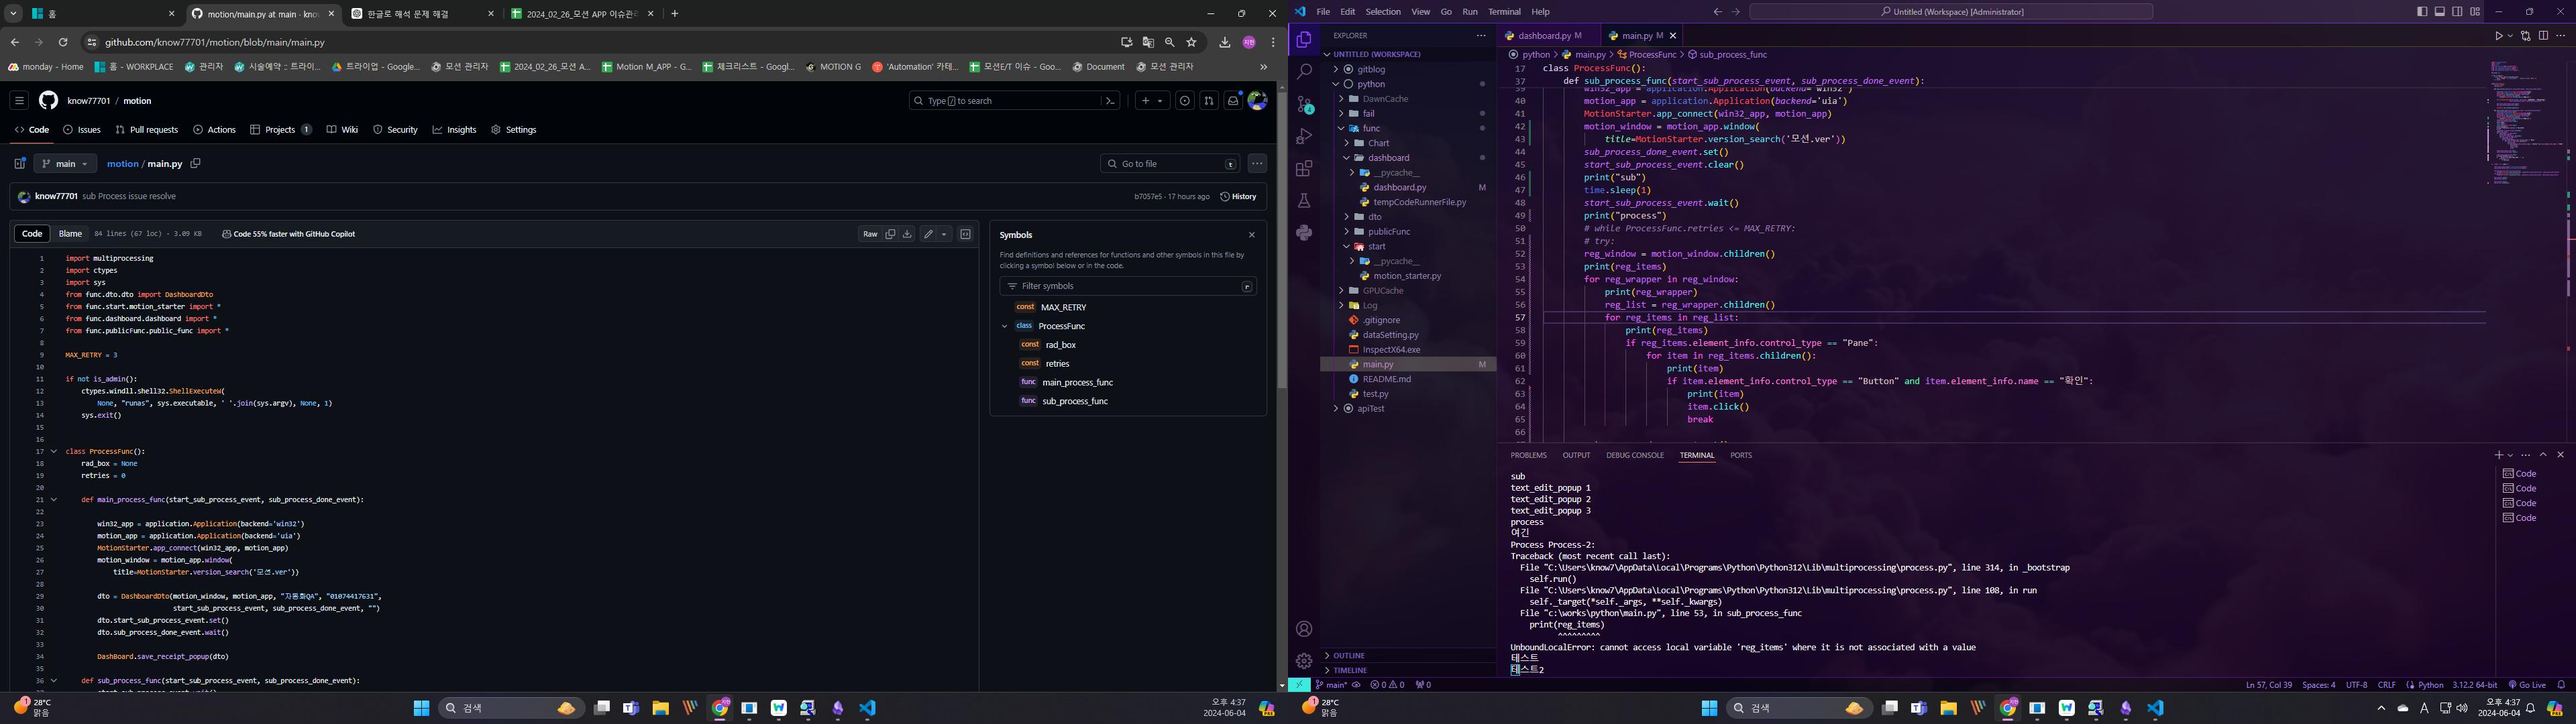
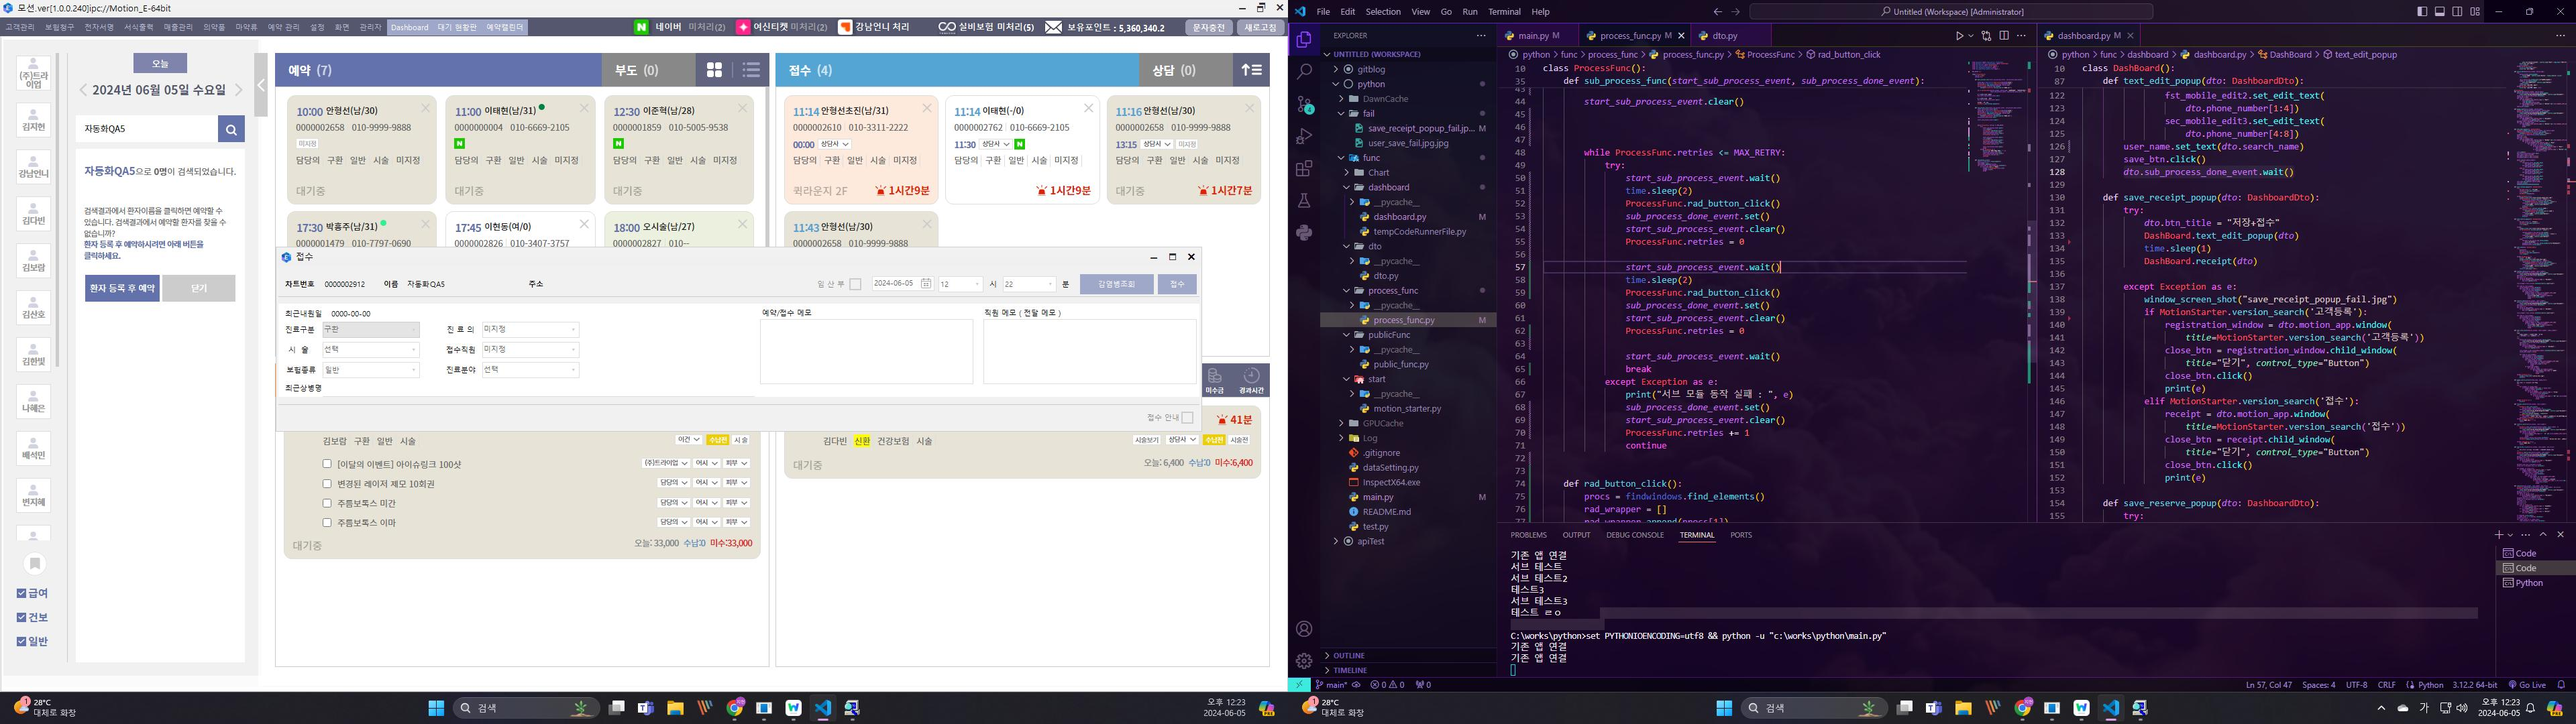
usb_process update

diff --git a/func/process_func/process_func.py b/func/process_func/process_func.py
@@ -1,10 +1,11 @@
+from pywinauto import application, findwindows
+from pywinauto.controls.hwndwrapper import HwndWrapper
 from func.dto.dto import DashboardDto
 from func.start.motion_starter import *
 from func.dashboard.dashboard import *
 from func.publicFunc.public_func import *
 
 MAX_RETRY = 3
-retries = 0
 
 class ProcessFunc():
     rad_box = None
@@ -18,8 +19,8 @@ class ProcessFunc():
         motion_window = motion_app.window(
             title=MotionStarter.version_search('모션.ver'))
 
-        dto = DashboardDto(motion_window, motion_app, "자동화QA4", "01074417631",
-                           start_sub_process_event, sub_process_done_event, "", "필요값")
+        dto = DashboardDto(motion_window, motion_app, "자동화QA5", "01074417631",
+                           start_sub_process_event, sub_process_done_event, "")
         
         # 서브프로세스 통신용
         dto.start_sub_process_event.set()
@@ -28,7 +29,7 @@ class ProcessFunc():
         dto.sub_process_done_event.wait()
         
         #여기서부터 시작
-        
+        DashBoard.save_receipt_popup(dto)
 
 
     def sub_process_func(start_sub_process_event, sub_process_done_event):
@@ -39,32 +40,44 @@ class ProcessFunc():
         motion_window = motion_app.window(
             title=MotionStarter.version_search('모션.ver'))
         sub_process_done_event.set()
-        
+
         start_sub_process_event.clear()
-    
-        start_sub_process_event.wait()
-        reg_window = motion_window.child_window(auto_id="FrmRegPatInfo", title="고객등록")
+        
+        
+        
         while ProcessFunc.retries <= MAX_RETRY:
             try:
-                reg_window.child_window
-                for reg_wrapper in reg_window:
-                    print(reg_wrapper)
-                    reg_list = reg_wrapper.children()
-                    for reg_items in reg_list:
-                        print(reg_items)
-                        if reg_items.element_info.control_type == "Pane":
-                            for item in reg_items.children():
-                                print(item)
-                                if item.element_info.control_type == "Button" and item.element_info.name == "확인":
-                                    print(item)
-                                    item.click()
-                                    break
-                
+                start_sub_process_event.wait()
+                time.sleep(2)
+                ProcessFunc.rad_button_click()
                 sub_process_done_event.set()
                 start_sub_process_event.clear()
+                ProcessFunc.retries = 0
 
                 start_sub_process_event.wait()
+                print("?")
+                time.sleep(2)
+                ProcessFunc.rad_button_click()
+                sub_process_done_event.set()
+                start_sub_process_event.clear()
+                ProcessFunc.retries = 0
+                
+                start_sub_process_event.wait()
+                break
             except Exception as e:
                 print("서브 모듈 동작 실패 : ", e)
-                retries += 1
+                sub_process_done_event.set()
+                start_sub_process_event.clear()
+                ProcessFunc.retries += 1
                 continue
+            
+            
+    def rad_button_click():
+        procs = findwindows.find_elements()
+        rad_wrapper = []
+        rad_wrapper.append(procs[1])
+        for list_item in rad_wrapper[0].children():
+            if list_item.name == "확인":
+                wrapper = HwndWrapper(list_item)
+                wrapper.click()
+                break

diff --git a/func/dashboard/dashboard.py b/func/dashboard/dashboard.py
@@ -10,6 +10,8 @@ retries = 0
 class DashBoard():
     """
     Motion E 차트 대시보드 동작
+    
+    
     """
     def dashboard_start(dto: DashboardDto):
         """
@@ -86,7 +88,6 @@ class DashBoard():
         DashBoard.popup_view(dto.motion_window, dto.search_name)
         registration_window = dto.motion_app.window(
             title=MotionStarter.version_search('고객등록'))
-        print("text_edit_popup 1")
         window_list = registration_window.children()
         edit_list = []
         save_btn = None
@@ -100,14 +101,12 @@ class DashBoard():
                                     edit_list.append(value)
                                 if value.element_info.control_type == "Button" and value.element_info.name == dto.btn_title:
                                     save_btn = value
-        print("text_edit_popup 2")
-        time.sleep(2)
-        print("text_edit_popup 3")
+        time.sleep(3)
+        dto.start_sub_process_event.set()
         user_name = edit_list[19]
-        user_name.set_text(dto.search_name)
         sec_mobile_edit3 = edit_list[11]
         fst_mobile_edit2 = edit_list[13]
-        dto.start_sub_process_event.set()
+        
         match len(dto.phone_number):
             case 13:
                 fst_mobile_edit2.set_edit_text(
@@ -124,7 +123,7 @@ class DashBoard():
                     dto.phone_number[1:4])
                 sec_mobile_edit3.set_edit_text(
                     dto.phone_number[4:8])
-       
+        user_name.set_text(dto.search_name)
         save_btn.click()
         dto.sub_process_done_event.wait()
 
@@ -132,14 +131,12 @@ class DashBoard():
         try:
             dto.btn_title = "저장+접수"
             DashBoard.text_edit_popup(dto)
-            print("여긴")
             time.sleep(1)
             DashBoard.receipt(dto)
 
         except Exception as e:
             window_screen_shot("save_receipt_popup_fail.jpg")
             if MotionStarter.version_search('고객등록'):
-                print("왜안돌지")
                 registration_window = dto.motion_app.window(
                     title=MotionStarter.version_search('고객등록'))
                 close_btn = registration_window.child_window(
@@ -410,10 +407,10 @@ class DashBoard():
 
     def receipt(dto: DashboardDto):
         time.sleep(3)
+        dto.start_sub_process_event.set()
         receipt_window = dto.motion_app.window(
             title=MotionStarter.version_search('접수'))
 
-        print("테스트")
         receipt_list = receipt_window.children()
         fr_list = receipt_list[0].children()
         receipt_btn = None
@@ -421,7 +418,6 @@ class DashBoard():
             if child.element_info.control_type == "Button" and child.element_info.name == "접수":
                 receipt_btn = child
 
-        print("테스트2")
         sec_list = receipt_list[1].children()
         edit_list = []
         for wrapper in sec_list:

diff --git a/main.py b/main.py
@@ -21,6 +21,7 @@ if __name__ == "__main__":
         target=ProcessFunc.sub_process_func, args=(start_sub_process_event, sub_process_done_event))
 
     main_process.start()
+
     sub_process.start()
 
     main_process.join()
